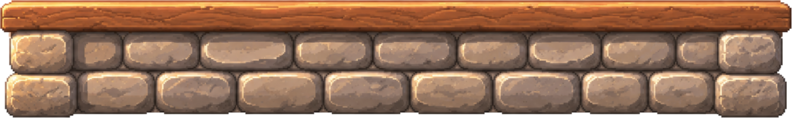
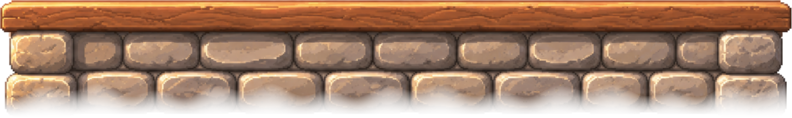
Phase-appropriate room windows + ground the foundation in the meadow
Windows (all rooms audited): the room interiors are painted with bright
day-sky windows that read as noon under a dusk/night sky. Since the house
is a cutaway, windows show the view OUT, so at night they should go dark,
not glow.
- processRawWorldArt.mjs extracts a per-room window-sky mask
  (assets/rooms/windows/<room>.png): largest blue blob with mullion-split
  panes merged, clouds within the region included, and monitors/globes/
  plants excluded via the merge distance.
- Treated only the rooms with a real sky window (cozy_den/kitchen/study/
  office/garden). Verified every room against a detection montage: the
  aquarium's water and the desert's already-night sky are deliberately
  left alone; bamboo/burrow have no window (detector found none).
- RoomView overlays the mask with a WINDOW_TINT color+opacity per phase
  (day-blue -> dusk rose -> night dark). Mullions/curtains and the warm
  lit interior stay; day (phase 0) is untouched.

Foundation grounding (the "still sticks out" fix):
- grass_fringe.png (procedural blade tufts) is rooted at the foundation
  base and rises over the bottom courses, so the house plants into the
  meadow instead of ending on a hard line. Rendered base + tinted copy so
  the blades shade into each phase.
- The foundation's bottom is now feathered on an irregular per-column edge
  (dissolves into grass), and house_shadow.png is a soft contact band
  (was 3 hard pills) that hugs the base, both phase-aware via CONTACT_SHADOW.
[…]

Changed region(s): [[0.0, 0.7373, 1.0, 1.0]]

diff --git a/mobile/src/components/home/HouseWorld.tsx b/mobile/src/components/home/HouseWorld.tsx
@@ -38,6 +38,8 @@ const ROOF_IMG = require('../../../assets/environment/roof.png');
 const FOUNDATION_IMG = require('../../../assets/environment/foundation.png');
 const WALL_IMG = require('../../../assets/environment/wall.png');
 const PIT_ENTRANCE_IMG = require('../../../assets/environment/pit_entrance.png');
+const HOUSE_SHADOW_IMG = require('../../../assets/environment/house_shadow.png');
+const GRASS_FRINGE_IMG = require('../../../assets/environment/grass_fringe.png');
 const SHADOW_FIGURE_IMG = require('../../../assets/environment/shadow_figure.png');
 
 const { width: SCREEN_WIDTH, height: SCREEN_HEIGHT } = Dimensions.get('window');
@@ -1121,21 +1123,25 @@ export const HouseWorld: React.FC<HouseWorldProps> = ({
                 {/* The unnamed entity - invisible until Phase 3, then looming behind the house */}
                 <ShadowFigure phase={currentPhase} />
 
-                {/* Contact shadow: three stacked soft pills under the
-                    foundation seat the house on the meadow (without it the
-                    hard art edge read as a sticker on the background).
-                    Static Views, painted before the house so the foundation
-                    covers the center; dark phases soften it. */}
+                {/* Contact shadow: a soft feathered blob under the foundation
+                    seats the house on the meadow (without it the hard art edge
+                    read as a sticker). Painted before the house so the
+                    foundation/pit cover the opaque core and only the soft halo
+                    shows around the base; tintColor + opacity track the phase
+                    ground (green -> sunset earth -> night blues, softening as
+                    the sun leaves). */}
                 <View
                   pointerEvents="none"
                   style={[
                     styles.contactShadowWrap,
-                    { bottom: (onPitPress ? PIT_FLOW_HEIGHT : 0) - 14 },
+                    { bottom: (onPitPress ? PIT_FLOW_HEIGHT : 0) - 48 },
                   ]}
                 >
-                  <View style={[styles.contactShadowPill, styles.contactShadowOuter, { backgroundColor: contactShadow.color, opacity: 0.1 * contactShadow.mult }]} />
-                  <View style={[styles.contactShadowPill, styles.contactShadowMid, { backgroundColor: contactShadow.color, opacity: 0.1 * contactShadow.mult }]} />
-                  <View style={[styles.contactShadowPill, styles.contactShadowInner, { backgroundColor: contactShadow.color, opacity: 0.12 * contactShadow.mult }]} />
+                  <Image
+                    source={HOUSE_SHADOW_IMG}
+                    style={[styles.contactShadowImg, { tintColor: contactShadow.color, opacity: 0.55 * contactShadow.mult }]}
+                    resizeMode="stretch"
+                  />
                 </View>
 
 
@@ -1251,6 +1257,31 @@ export const HouseWorld: React.FC<HouseWorldProps> = ({
                       resizeMode="stretch"
                     />
                   )}
+                </View>
+
+                {/* Grass fringe: tufts rooted at the base rising over the stone
+                    bottom, so the foundation is planted in the meadow instead
+                    of ending on a hard line. Base + a same-source tinted copy
+                    (keeps the blades, shades them into the phase). Positioned
+                    at the foundation base; the pit path (drawn next) passes in
+                    front at the center. */}
+                <View
+                  pointerEvents="none"
+                  style={[
+                    styles.grassFringeWrap,
+                    { bottom: (onPitPress ? PIT_FLOW_HEIGHT : 0) - 4 },
+                  ]}
+                >
+                  <View style={styles.grassFringeInner}>
+                    <Image source={GRASS_FRINGE_IMG} style={styles.grassFringeImg} resizeMode="stretch" />
+                    {houseTint.ext > 0 && (
+                      <Image
+                        source={GRASS_FRINGE_IMG}
+                        style={[styles.grassFringeImg, styles.tintFill, { tintColor: houseTint.color, opacity: houseTint.ext }]}
+                        resizeMode="stretch"
+                      />
+                    )}
+                  </View>
                 </View>
 
                 {/* The Offering Pit's mouth in the front yard, a stone path
@@ -1486,37 +1517,39 @@ const styles = StyleSheet.create({
     right: -5,
     bottom: -5,
   },
-  // Contact shadow under the foundation. Wrap is bottom-positioned inline
-  // (the pit entrance adds 95dp of flow height below the foundation when it
-  // renders). Dark grass-green rather than pure black so the low-opacity
-  // lobes blend into the meadow.
+  // Contact shadow under the foundation. Wrap is bottom-positioned inline (the
+  // pit entrance adds its flow height below the foundation when it renders);
+  // the soft blob Image is wider than the house so its feathered halo spills
+  // onto the meadow around the base.
   contactShadowWrap: {
     position: 'absolute',
     left: 0,
     right: 0,
-    height: 28,
+    height: 54,
     alignItems: 'center',
     justifyContent: 'center',
   },
-  contactShadowPill: {
+  contactShadowImg: {
+    width: HOUSE_WIDTH + 40,
+    height: 54,
+  },
+  // Grass fringe rooted at the foundation base. Wrap spans full width and
+  // centers a fixed-width inner band; both grass images (base + tinted copy)
+  // fill the inner band so the tint aligns to the base exactly.
+  grassFringeWrap: {
     position: 'absolute',
-    alignSelf: 'center',
-    backgroundColor: '#0A1408',
+    left: 0,
+    right: 0,
+    height: 24,
+    alignItems: 'center',
   },
-  contactShadowOuter: {
-    width: HOUSE_WIDTH + 54,
-    height: 26,
-    borderRadius: 13,
+  grassFringeInner: {
+    width: HOUSE_WIDTH + 24,
+    height: 24,
   },
-  contactShadowMid: {
-    width: HOUSE_WIDTH + 28,
-    height: 20,
-    borderRadius: 10,
-  },
-  contactShadowInner: {
-    width: HOUSE_WIDTH + 4,
-    height: 14,
-    borderRadius: 7,
+  grassFringeImg: {
+    width: '100%',
+    height: '100%',
   },
   topTrim: {
     position: 'absolute',

diff --git a/mobile/src/components/home/RoomView.tsx b/mobile/src/components/home/RoomView.tsx
@@ -27,6 +27,31 @@ const ROOM_BACKGROUNDS: Record<RoomTheme, ImageSourcePropType> = {
   bamboo: require('../../../assets/rooms/bamboo.png'),
 };
 
+// Phase-appropriate windows. The room art paints bright day-sky windows that
+// read as noon under a dusk/night sky. These masks (white on transparent,
+// window sky only — see scripts/tools/processRawWorldArt.mjs) let us recolor
+// just the window to the current phase. Only the rooms with a clear sky window
+// have a mask; the aquarium (water), desert (already night), and windowless
+// rooms are deliberately absent.
+const ROOM_WINDOW_MASKS: Partial<Record<RoomTheme, ImageSourcePropType>> = {
+  cozy_den: require('../../../assets/rooms/windows/cozy_den.png'),
+  kitchen: require('../../../assets/rooms/windows/kitchen.png'),
+  study: require('../../../assets/rooms/windows/study.png'),
+  office: require('../../../assets/rooms/windows/office.png'),
+  garden: require('../../../assets/rooms/windows/garden.png'),
+};
+
+// The color + strength painted over the window sky per phase (roughly each
+// sky's own tone; strength climbs into night). Phase 0 is untouched.
+const WINDOW_TINT: Record<number, { color: string; opacity: number }> = {
+  0: { color: '#000000', opacity: 0 },
+  1: { color: '#FFC98A', opacity: 0.14 }, // afternoon: faint warm
+  2: { color: '#B5623C', opacity: 0.5 },  // dusk: warm rose
+  3: { color: '#16233F', opacity: 0.82 }, // storm night: deep blue
+  4: { color: '#0A0E22', opacity: 0.9 },  // shadow: near-black night
+  5: { color: '#191330', opacity: 0.86 }, // terrible peace: mauve night
+};
+
 // Word echo configuration by phase (ritual words inscribed in rooms)
 const WORD_ECHO_CONFIG: Record<number, { count: number; opacity: number; fontSize: number; color: string }> = {
   2: { count: 3, opacity: 0.08, fontSize: 9, color: '#FFFFFF' },
@@ -175,6 +200,22 @@ export const RoomView: React.FC<RoomViewProps> = React.memo(({
           onError={() => {/* Falls back to themeColors.bg */}}
         />
       )}
+
+      {/* Phase-appropriate window: recolor just the window sky to match the
+          current sky. tintColor paints the mask's window shape; resizeMode
+          cover matches the background so it aligns. Mullions/curtains stay. */}
+      {(() => {
+        const mask = ROOM_WINDOW_MASKS[room.theme];
+        const tint = WINDOW_TINT[currentPhase] ?? WINDOW_TINT[0];
+        if (!mask || tint.opacity <= 0) return null;
+        return (
+          <Image
+            source={mask}
+            style={[styles.backgroundImage, { tintColor: tint.color, opacity: tint.opacity }]}
+            resizeMode="cover"
+          />
+        );
+      })()}
 
       {/* Room frame */}
       <View style={[styles.frame, { borderColor: themeColors.accent }]} />

diff --git a/mobile/src/__tests__/skyGeometry.test.ts b/mobile/src/__tests__/skyGeometry.test.ts
@@ -108,6 +108,43 @@ describe('phase lighting settles the house into each sky', () => {
     expect(HOUSE_WORLD).toMatch(/styles\.bodyScrim, \{ backgroundColor: houseTint\.color, opacity: wallTintOpacity \}/);
     expect(HOUSE_WORLD).toMatch(/styles\.bodyRoomScrim, \{ backgroundColor: houseTint\.color, opacity: houseTint\.room \}/);
   });
+
+  test('the house is grounded with a grass fringe + soft contact shadow', () => {
+    expect(fs.existsSync(path.join(ENV_DIR, 'grass_fringe.png'))).toBe(true);
+    expect(fs.existsSync(path.join(ENV_DIR, 'house_shadow.png'))).toBe(true);
+    expect(HOUSE_WORLD).toMatch(/GRASS_FRINGE_IMG/);
+    expect(HOUSE_WORLD).toMatch(/HOUSE_SHADOW_IMG/);
+  });
+});
+
+describe('phase-appropriate room windows', () => {
+  const ROOM_VIEW = fs.readFileSync(
+    path.resolve(__dirname, '../components/home/RoomView.tsx'),
+    'utf8'
+  );
+  const TREATED = ['cozy_den', 'kitchen', 'study', 'office', 'garden'];
+  const WINDOWS_DIR = path.resolve(__dirname, '../../assets/rooms/windows');
+
+  test.each(TREATED)('%s has a window-sky mask asset', (room) => {
+    expect(fs.existsSync(path.join(WINDOWS_DIR, `${room}.png`))).toBe(true);
+  });
+
+  test('only the clear-window rooms are treated (aquarium/desert excluded)', () => {
+    for (const room of TREATED) {
+      expect(ROOM_VIEW).toMatch(new RegExp(`${room}: require\\(.*windows/${room}\\.png`));
+    }
+    // The aquarium's water and the desert's night sky must NOT be recolored.
+    expect(ROOM_VIEW).not.toMatch(/windows\/aquarium/);
+    expect(ROOM_VIEW).not.toMatch(/windows\/desert/);
+    expect(fs.existsSync(path.join(WINDOWS_DIR, 'aquarium.png'))).toBe(false);
+    expect(fs.existsSync(path.join(WINDOWS_DIR, 'desert.png'))).toBe(false);
+  });
+
+  test('the mask recolors per phase via WINDOW_TINT (day untouched)', () => {
+    expect(ROOM_VIEW).toMatch(/const WINDOW_TINT/);
+    expect(ROOM_VIEW).toMatch(/0: \{ color: '#000000', opacity: 0 \}/);
+    expect(ROOM_VIEW).toMatch(/tintColor: tint\.color, opacity: tint\.opacity/);
+  });
 });
 
 describe('foundation seats below the river on real devices', () => {

diff --git a/CLAUDE.md b/CLAUDE.md
@@ -407,6 +407,7 @@ The core system making puzzles feel like rituals:
 - **Dread Word Visual Feedback** (Phase 2+): Crimson pulse overlay on dread word formation. Phase-scaled opacity (0.10 → 0.25).
 - **Arrangement Pattern** (Phase 2+): Visual sigil lines connecting rooms on house exterior.
 - **Room Word Echoes** (Phase 2+): Faint puzzle words scattered across room backgrounds.
+- **Phase-Appropriate Windows** (Phase 1+): the room interiors are painted with bright day-sky windows that read as noon under a dusk/night sky. `processRawWorldArt.mjs` extracts a per-room window-sky mask (`assets/rooms/windows/<room>.png`, white on transparent — largest blue blob + mullion-split panes merged, clouds within the region included, monitors/globes/plants excluded) for the rooms with a clear sky window (`cozy_den/kitchen/study/office/garden`); the aquarium's water, the desert's already-night sky, and windowless rooms are deliberately untreated (verified against a per-room detection montage). RoomView overlays the mask with a `tintColor`+opacity from `WINDOW_TINT` so just the window sky recolors to the phase (day-blue → dusk rose → night dark) while the mullions/curtains and the warm lit interior (fireplace, lamp) stay. Since the house is a cutaway, windows show the view OUT — they darken at night, they don't glow.
 
 ## Phase-Aware Visual Theming
 
@@ -546,7 +547,7 @@ Client-side sync layer with a pluggable `CloudProvider` interface. A live Supaba
 - **All 10 character sprites** wired up: idle.png, talk.png, robed.png per animal. **Intentional design — not a defect:** `axolotl/talk.png` is byte-identical to `axolotl/idle.png` *on purpose* — Axel (the axolotl) wears a scuba mask, so he can't visibly talk; his mouth never moves, hence no distinct talk frame. Do NOT "fix" this by generating a separate talk sprite. The reduced-motion-safe talk transform on the dialogue portrait (HomeScreen `dialogueSpriteTalking`) still gives Axel subtle motion while speaking, consistent with every other animal.
 - **All 10 room backgrounds** wired up in RoomView.tsx
 - **Environment**: sky_day/afternoon/dusk/storm/shadow.png (phase-aware: 0=day, 1=afternoon, 2=dusk, 3=storm, 4+=shadow — see `HouseWorld.tsx`), pitt_day/dusk/night.png (pit backgrounds). Oversized backgrounds were downscaled for mobile via `scripts/tools/downscaleImages.mjs`; skies are 941×1972 (bottom 300 rows = mirrored meadow extension for the house-below-the-river seat — see Home Background Colors)
-- **World art (wired into HouseWorld)**: `roof.png` (792×283, chimney + attic window baked in; smoke puffs animate above the chimney at ~25% from the left), `foundation.png` (792×118, stone courses + timber sill), `wall.png` (seamless 128×128 timber tile repeated behind the rooms — replaced the flat wall color that read as a sticker), and the tappable `pit_entrance.png` (460×540, stone-rimmed glowing well + a stone path that leads up under the foundation via `PIT_MARGIN_TOP`) are **AI-generated detailed pixel art matching the room interiors** — sources live in `assets/raw/` and are processed (background key → crop → downscale; the pit also drops the top 45% of its tapered path tail) by `scripts/tools/processRawWorldArt.mjs`; their aspect constants live in HouseWorld.tsx and the seat math in `skyGeometry.test.ts` (update both if raws change). **Phase lighting**: `PHASE_HOUSE_TINT` washes the house into each sky's ambient light — a same-source `tintColor` overlay Image follows the roof/foundation/pit silhouettes, and two body scrims tint the wall/frame at full exterior strength while tinting the rooms at ~half (so lit interiors keep glowing against the darkened shell); the pit's tint is capped so the well's teal glow survives the night phases. A static 3-pill contact shadow under the foundation seats the house on the meadow, with `CONTACT_SHADOW` shifting its color/strength per phase (green meadow → sunset earth → night blues, softening as the sun leaves). `cloud_1/2.png` remain procedural (`scripts/tools/generatePixelWorld.mjs`, now clouds/tree/ground only). `ground.png`/`tree.png` exist but are intentionally NOT rendered: the sky backgrounds are full landscapes with their own grass and trees. The soft `shadow_figure.png` (the entity) is deliberately NOT pixel art — it should read as otherworldly against the pixel world (`generateWorldArt.mjs`)
+- **World art (wired into HouseWorld)**: `roof.png` (792×283, chimney + attic window baked in; smoke puffs animate above the chimney at ~25% from the left), `foundation.png` (792×118, stone courses + timber sill), `wall.png` (seamless 128×128 timber tile repeated behind the rooms — replaced the flat wall color that read as a sticker), and the tappable `pit_entrance.png` (460×540, stone-rimmed glowing well + a stone path that leads up under the foundation via `PIT_MARGIN_TOP`) are **AI-generated detailed pixel art matching the room interiors** — sources live in `assets/raw/` and are processed (background key → crop → downscale; the pit also drops the top 45% of its tapered path tail) by `scripts/tools/processRawWorldArt.mjs`; their aspect constants live in HouseWorld.tsx and the seat math in `skyGeometry.test.ts` (update both if raws change). The foundation's bottom is **feathered on an irregular (per-column sine) edge** so it dissolves into the grass instead of ending on a hard line. **Phase lighting**: `PHASE_HOUSE_TINT` washes the house into each sky's ambient light — a same-source `tintColor` overlay Image follows the roof/foundation/pit/grass silhouettes, and two body scrims tint the wall/frame at full exterior strength while tinting the rooms at ~half (so lit interiors keep glowing against the darkened shell); the pit's tint is capped so the well's teal glow survives the night phases. **Grounding**: `grass_fringe.png` (procedural blade tufts rooted at the foundation base, base + tinted-copy so it shades per phase) plants the house in the meadow, and `house_shadow.png` (a soft contact band, `tintColor`+opacity from `CONTACT_SHADOW`) darkens the base — both phase-aware (green meadow → sunset earth → night blues, softening as the sun leaves). Both grounding assets are generated by `processRawWorldArt.mjs` (procedural, no raw source). `cloud_1/2.png` remain procedural (`scripts/tools/generatePixelWorld.mjs`, now clouds/tree/ground only). `ground.png`/`tree.png` exist but are intentionally NOT rendered: the sky backgrounds are full landscapes with their own grass and trees. The soft `shadow_figure.png` (the entity) is deliberately NOT pixel art — it should read as otherworldly against the pixel world (`generateWorldArt.mjs`)
 - **UI sprites**: `assets/ui/` star_filled/star_empty/amber/flame/journal/pit.png + hint/undo/restart.png replace the ⭐ 💎 🔥 📚 ⭕ emoji in VictoryModal, the home header, stats, and unlock prompts (`scripts/tools/generateUiIcons.mjs`); `ActionButton` maps its 💡/↩/🔄 glyphs to the generated sprites. `<AmberInline />` embeds the amber gem inside Text runs. Icon art is tuned bright/high-contrast for the translucent dark header pills. Remaining emoji (🏆 📋 ✨) are intentional accents with accessibility labels
 - **Store kit**: `docs/feature-graphic.png` (1024×500) + `docs/STORE_LISTING.md` (descriptions, keywords, age rating, screenshot shot list)
 
